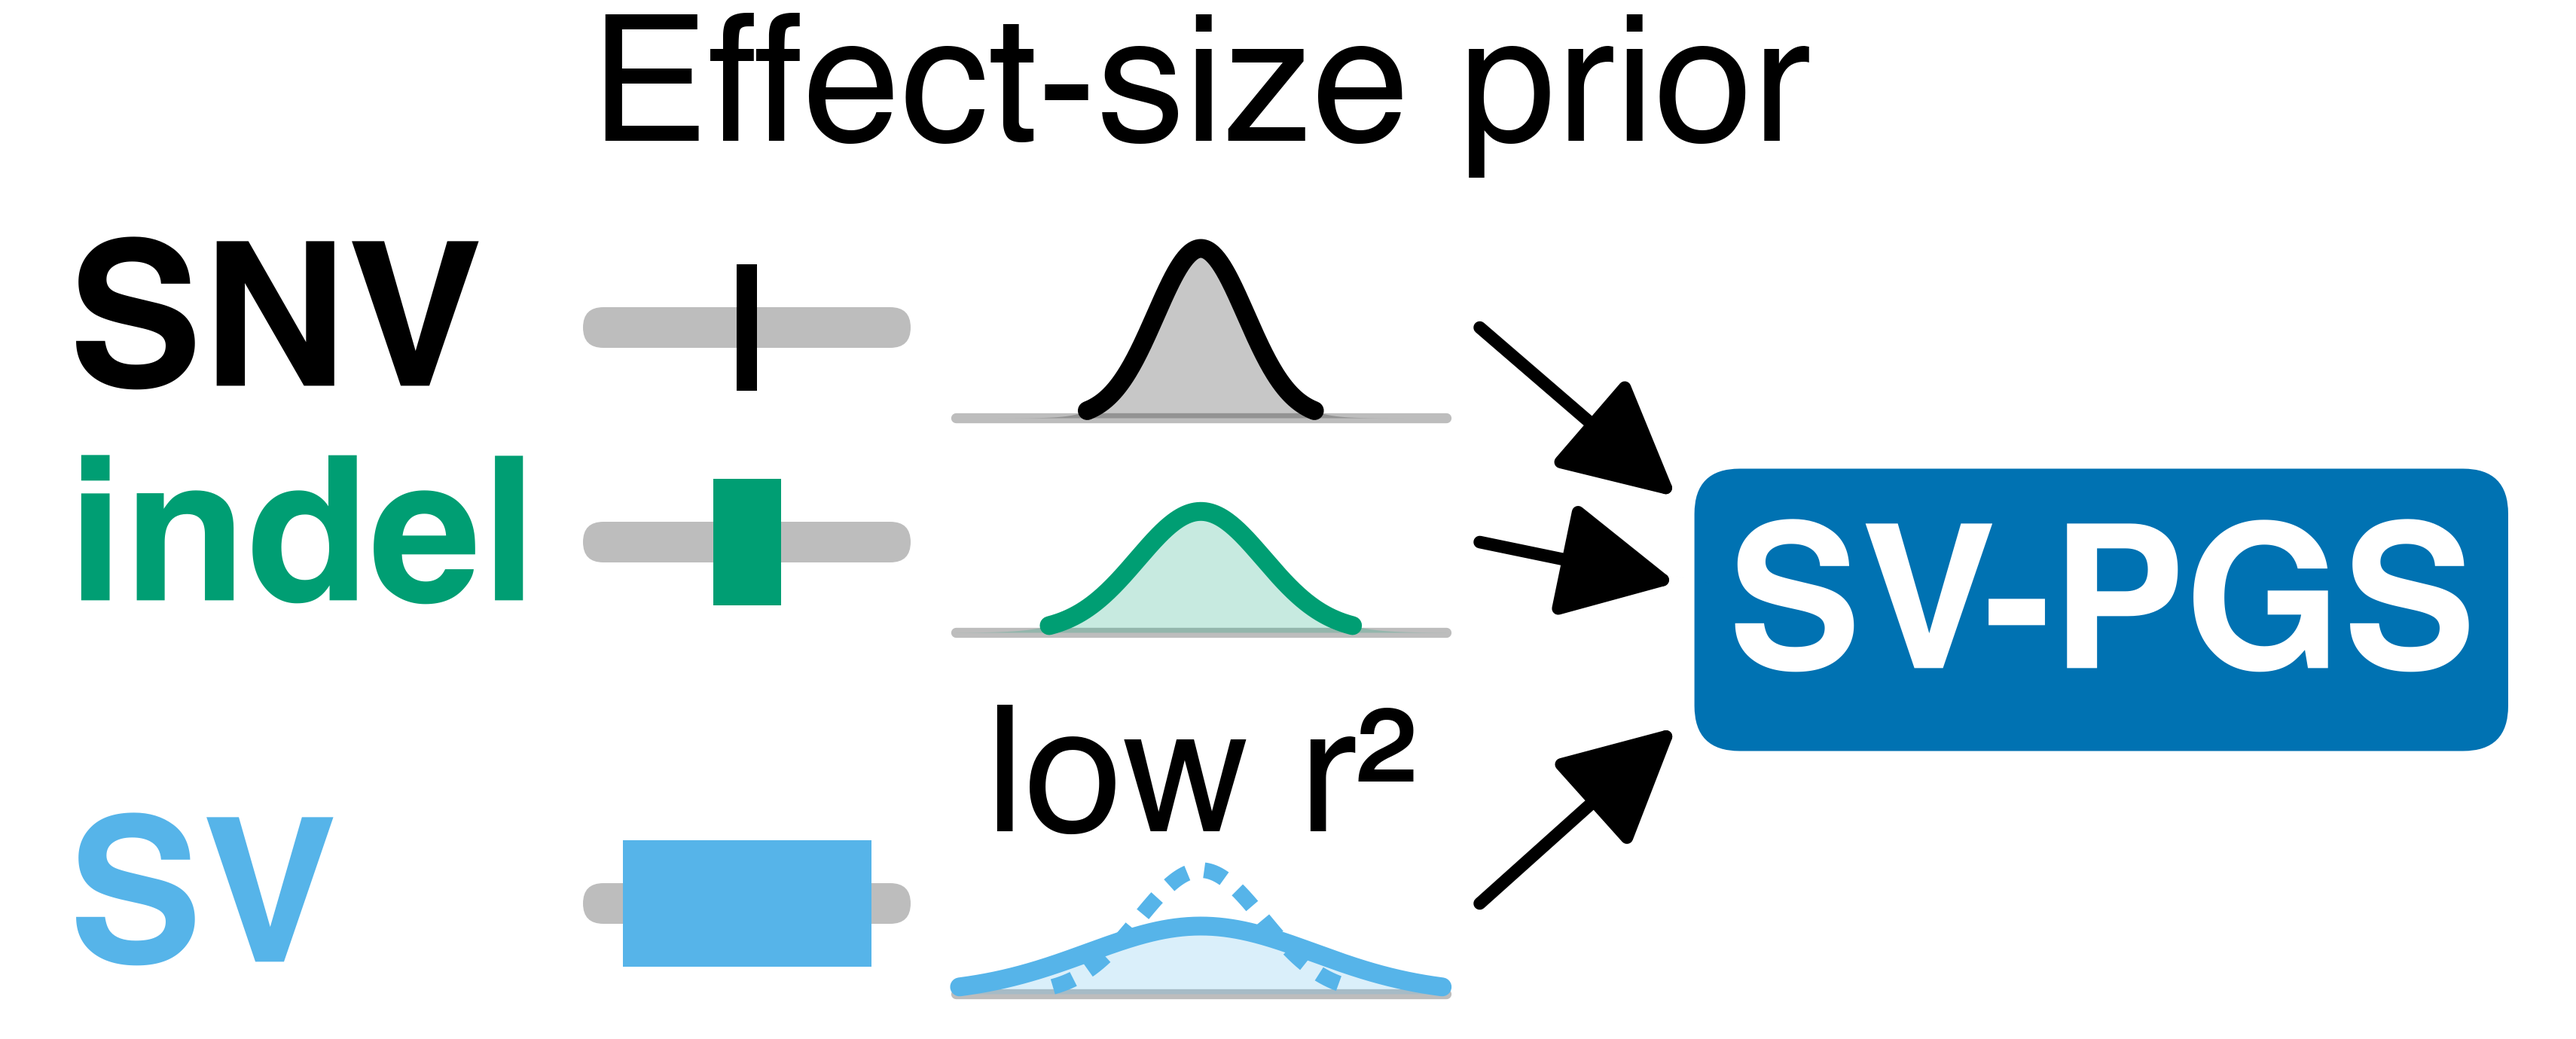
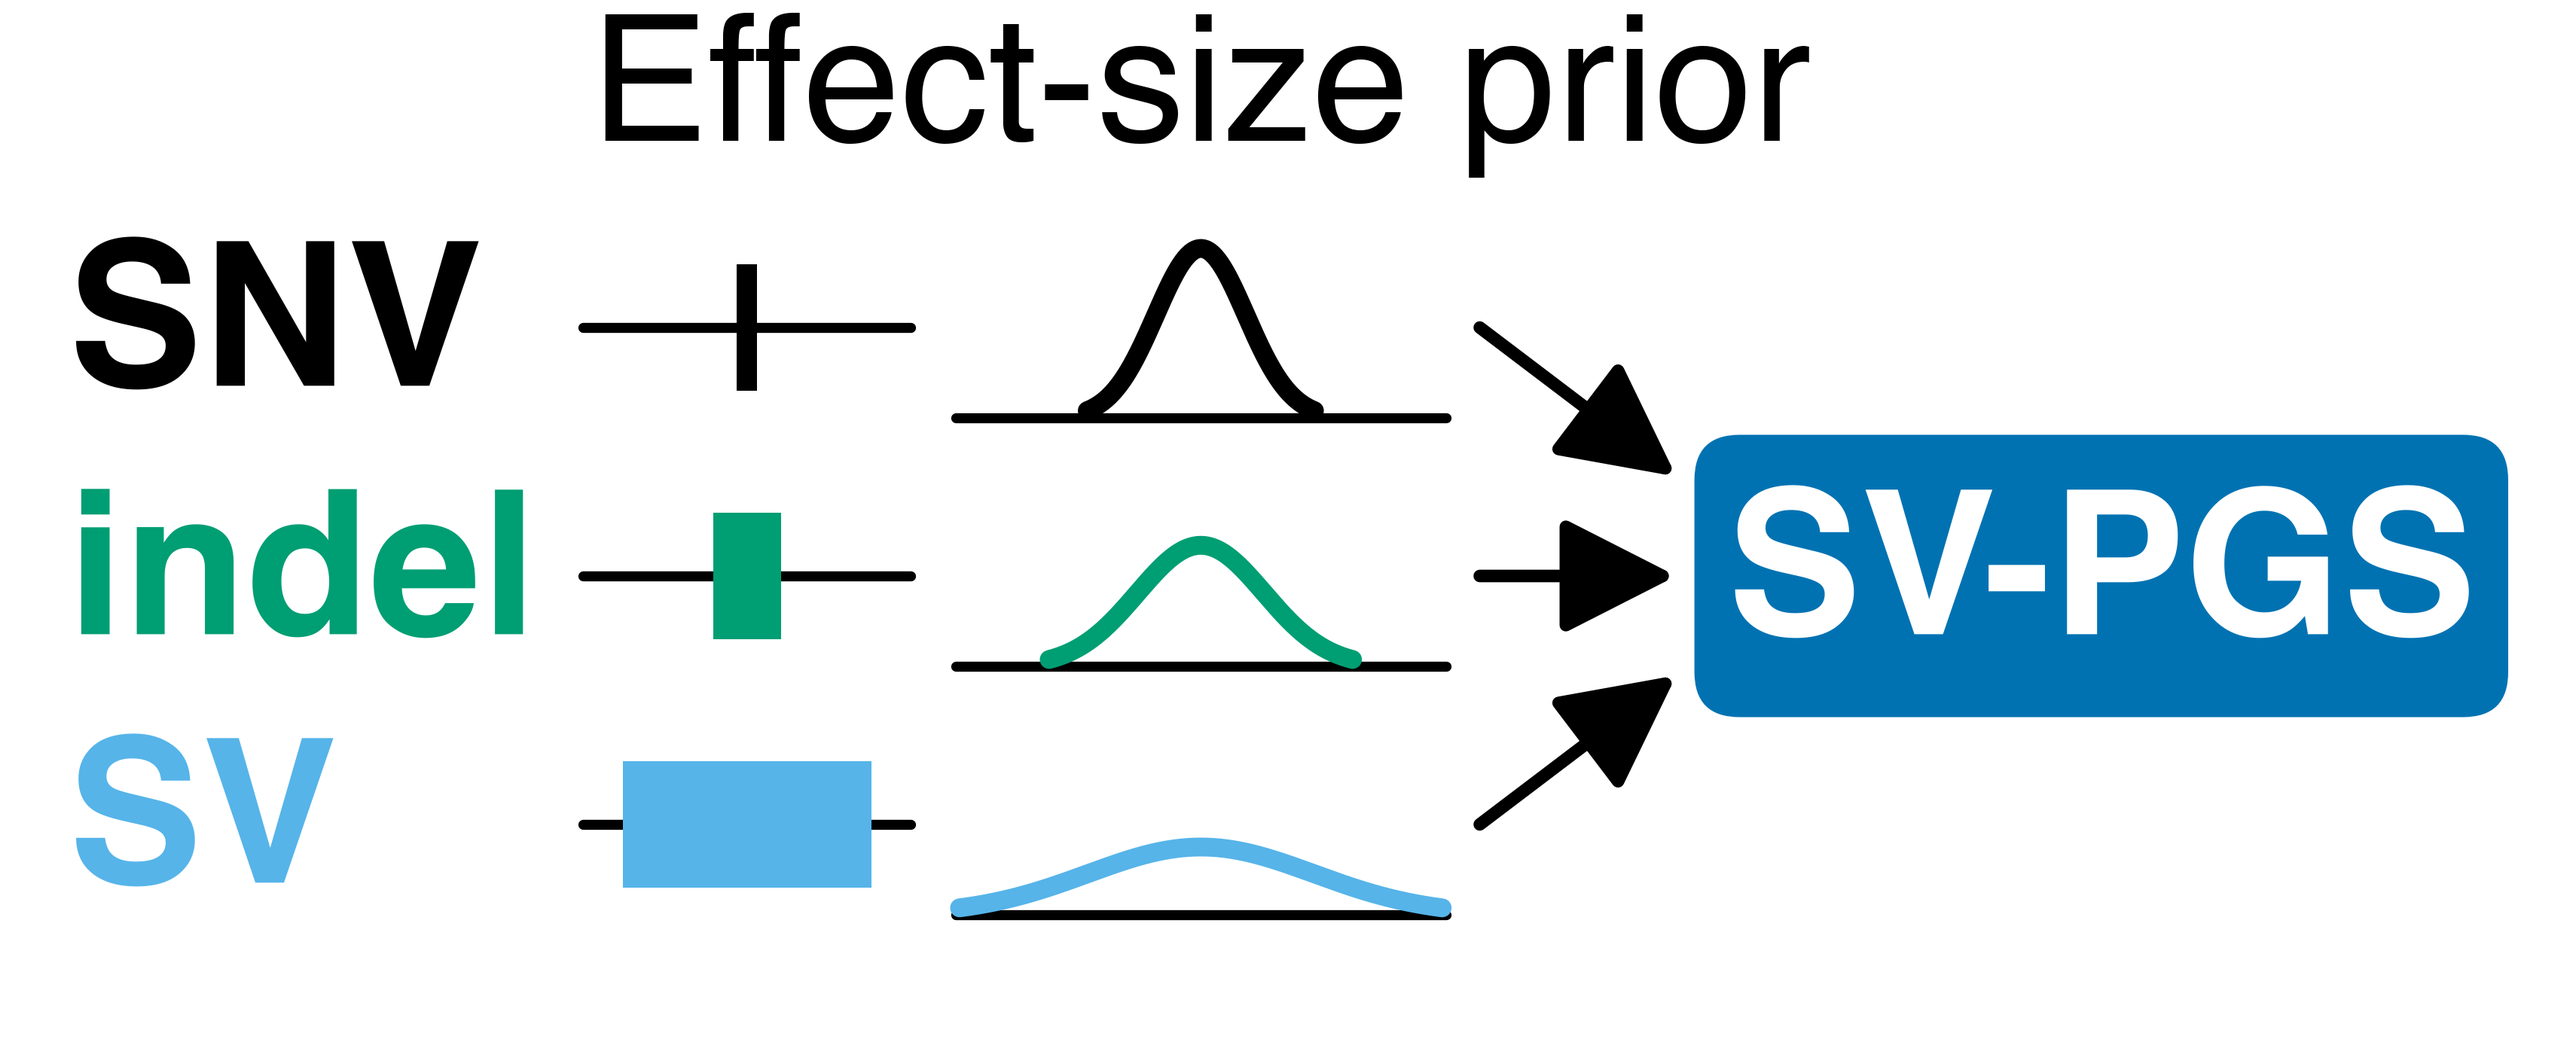
The poster's Methods schematic has no grey and one prior per variant class (docs/poster/ashg2026/sim_gallery.py). Each class's variant now sits on a black line instead of a grey bar. The priors' baselines are black, and the curves have no fill, which made the SNV's grey. The SV row's second, dotted 

diff --git a/docs/poster/ashg2026/sim_gallery.py b/docs/poster/ashg2026/sim_gallery.py
@@ -80,7 +80,6 @@ GREEN = "#009E73"
 PURPLE = "#CC79A7"
 INK = "#000000"
 GREY = "#6E6E6E"
-LIGHT = "#BDBDBD"
 RULE = "#E4E4E4"
 SV_PGS, LDPRED2, IMPUTED = BLUE, VERMILLION, SKY
 """The colours that name a method or a genotype source wherever it appears: SV-PGS (and any SV-PGS gain), LDpred2-auto,
@@ -1126,8 +1125,8 @@ VARIANTS = (("SNV", INK, 0.09), ("indel", GREEN, 0.3), ("SV", IMPUTED, 1.1))
 """The variant classes as the left column draws them: name, colour, and the width in inches of the block that stands for
 one variant on a chromosome (one base for an SNV, a few for an indel, many for an SV)."""
 SCHEMATICS = {
-    "poster_model": "An SNV, an indel and an SV on a chromosome, each class with its own effect-size prior (the SV's "
-                    "narrower at low imputation r²), all fitted together into SV-PGS.",
+    "poster_model": "An SNV, an indel and an SV on a chromosome, each class with its own effect-size prior, all fitted "
+                    "together into SV-PGS.",
     "poster_variants": "A table of the variants each method is given: SV-PGS all SNVs, indels and SVs; LDpred2-auto SNVs "
                        "of MAF ≥ 1% thinned to HapMap3 density, and no indels or SVs.",
 }
@@ -1144,20 +1143,9 @@ def canvas(height: float):
     return fig, ax
 
 
-def chromosome(ax, left: float, right: float, y: float, marks, tall: float = 0.56) -> None:
-    """A stretch of chromosome from ``left`` to ``right`` at height ``y`` (a grey bar) with each variant of ``marks``,
-    (centre, width, colour), a block ``tall`` inches high over it."""
-    ax.add_patch(matplotlib.patches.FancyBboxPatch((left, y - 0.09), right - left, 0.18,
-                                                   boxstyle="round,pad=0,rounding_size=0.09", facecolor=LIGHT,
-                                                   edgecolor="none", zorder=1))
-    for centre, width, colour in marks:
-        ax.add_patch(matplotlib.patches.Rectangle((centre - width / 2, y - tall / 2), width, tall, facecolor=colour,
-                                                  edgecolor="none", zorder=2))
-
-
 def poster_model_figure():
     """The SV-PGS model for the poster's Methods: an SNV, an indel and an SV on a chromosome, each class with its own
-    effect-size prior (the SV's also at a low imputation r², which narrows it), all fitted together into one score."""
+    effect-size prior, all fitted together into one score."""
     height = 4.6
     fig, ax = canvas(height)
     # left to right, in inches: the class names, a stretch of chromosome after the widest, the priors, the arrows, and
@@ -1166,9 +1154,9 @@ def poster_model_figure():
     stretch = EDGE + widest(fig, [name for name, *_ in VARIANTS], **name_style) + 0.2
     stretch = (stretch, stretch + 1.45)
     box_left = COLUMN - EDGE - widest(fig, ["SV-PGS"], **name_style) - 0.3
-    box_middle, box_tall = 1.9, 1.25
+    box_middle, box_tall = 2.05, 1.25
     centre, reach = (stretch[1] + 0.2 + box_left - 1.1) / 2, (box_left - 1.1 - stretch[1] - 0.2) / 2
-    bases = (2.75, 1.8, 0.2)
+    bases = (2.75, 1.65, 0.55)
     # each class's prior SD in inches, a schematic (empirical Bayes learns the real ones); every prior encloses the
     # same area, so a narrower one stands taller, the SNV's 0.75 in
     spreads = (0.2, 0.28, 0.5)
@@ -1178,22 +1166,17 @@ def poster_model_figure():
     for (name, colour, block), base, spread in zip(VARIANTS, bases, spreads):
         middle = base + 0.4
         ax.text(EDGE, middle, name, ha="left", va="center", color=colour, **name_style)
-        chromosome(ax, *stretch, middle, [(sum(stretch) / 2, block, colour)])
-        ax.plot([centre - reach, centre + reach], [base, base], color=LIGHT, linewidth=3.2, zorder=1,
+        # the variant, a block as wide as the class is long, on a black line for the chromosome
+        ax.plot(stretch, [middle, middle], color=INK, linewidth=3.2, solid_capstyle="round", zorder=1)
+        ax.add_patch(matplotlib.patches.Rectangle((sum(stretch) / 2 - block / 2, middle - 0.28), block, 0.56,
+                                                  facecolor=colour, edgecolor="none", zorder=2))
+        ax.plot([centre - reach, centre + reach], [base, base], color=INK, linewidth=3.2, zorder=1,
                 solid_capstyle="round")
         # each curve drawn where it stands clear of its baseline, so the tails leave the baseline bare
         density = area * stats.norm.pdf(effect, scale=spread)
         shown = density > 0.03
-        ax.fill_between(centre + effect, base, base + density, color=colour, alpha=0.22, linewidth=0, zorder=2)
         ax.plot(centre + effect[shown], base + density[shown], color=colour, linewidth=6.0, zorder=3,
                 solid_capstyle="round")
-        if name == "SV":
-            # the same prior for an SV imputed with r^2 = 0.3: its variance scales by r^2
-            low = area * stats.norm.pdf(effect, scale=spread * math.sqrt(0.3))
-            shown = low > 0.03
-            ax.plot(centre + effect[shown], base + low[shown], color=colour, linewidth=5.0, linestyle=(0, (1.4, 1.1)),
-                    zorder=3)
-            ax.text(centre, base + low.max() + 0.04, "low r²", ha="center", va="bottom", color=INK)
         # every class into the one model
         ax.annotate("", xy=(box_left - 0.08, box_middle + (middle - box_middle) * 0.4),
                     xytext=(centre + reach + 0.15, middle),
